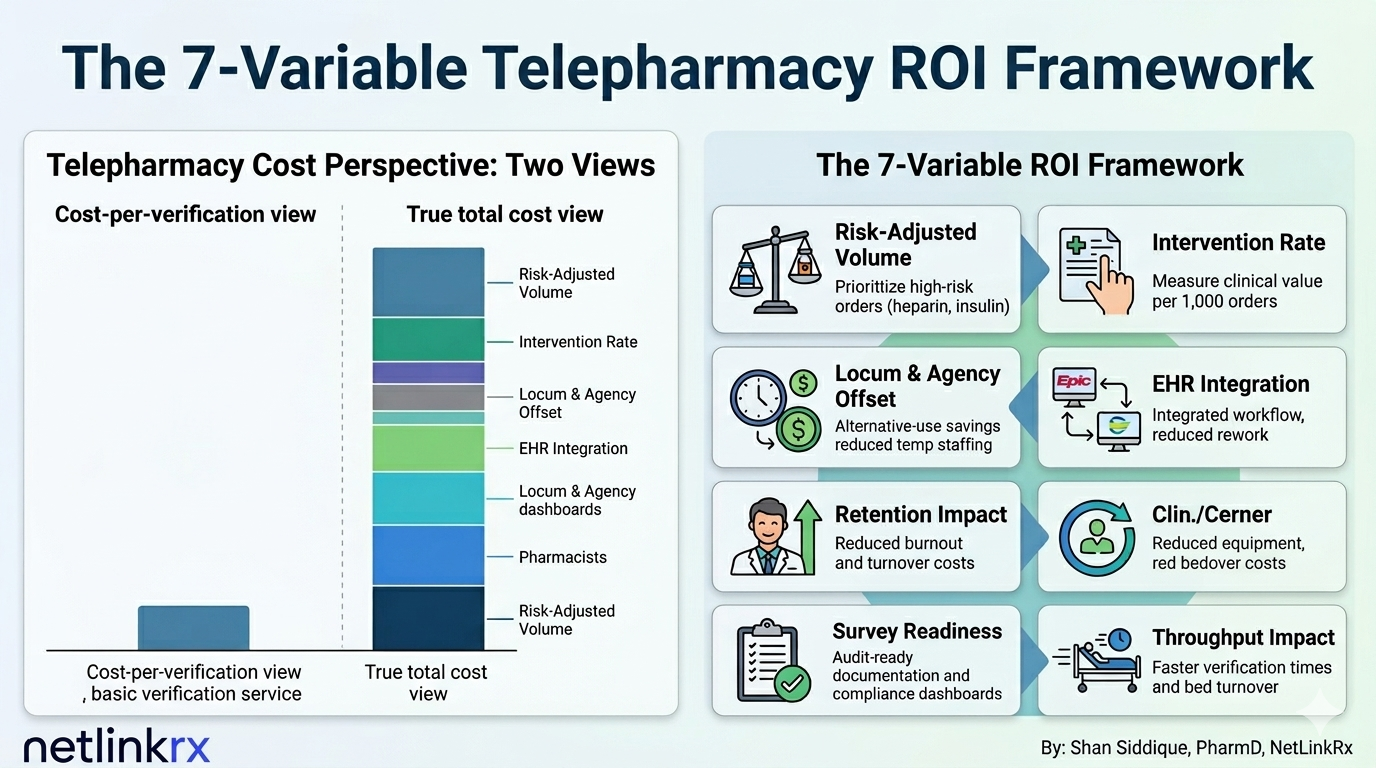
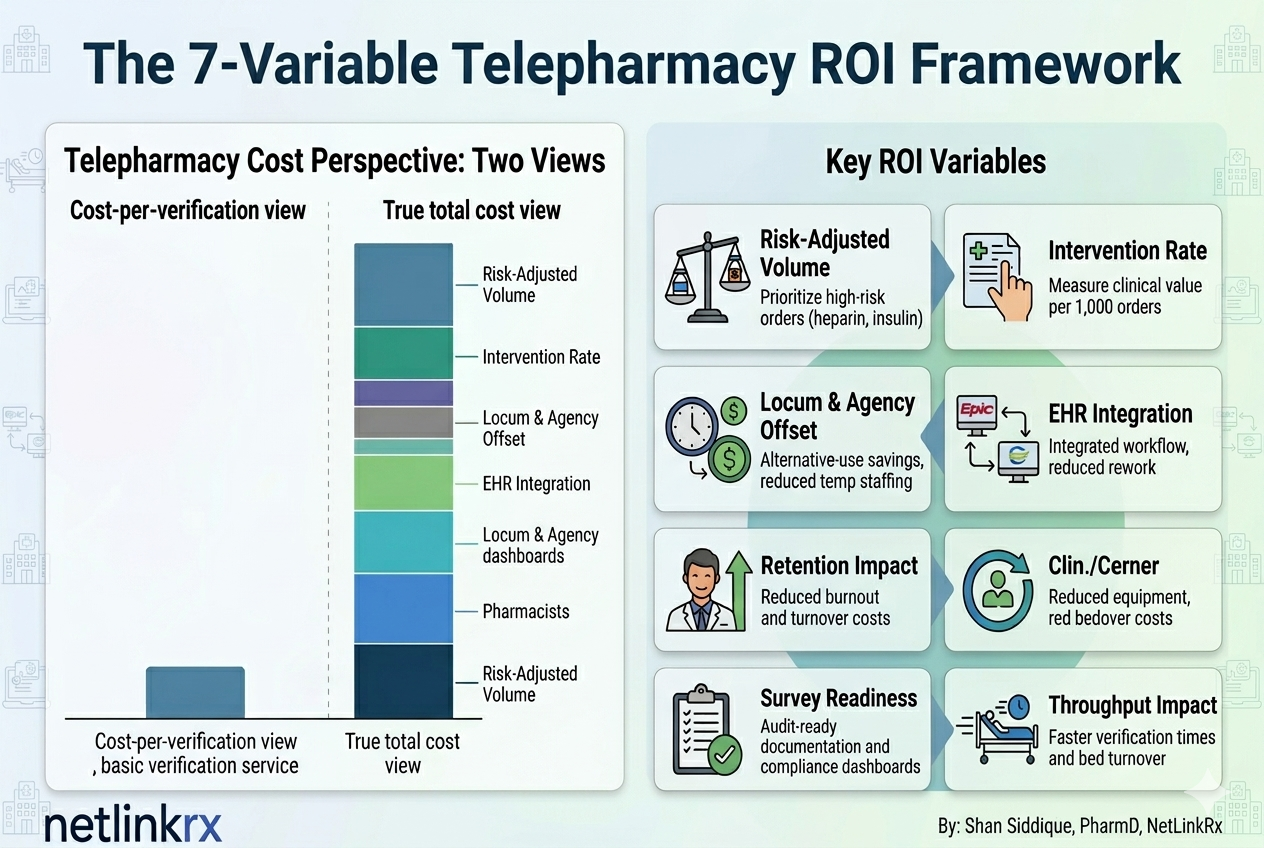
blog hero image resizing

diff --git a/app/blog/page.tsx b/app/blog/page.tsx
@@ -1,4 +1,5 @@
 import Link from "next/link";
+import Image from "next/image";
 import type { Metadata } from "next";
 import { ArrowRight, Newspaper, Sparkles } from "lucide-react";
 import { getAllPosts, pillarBadge, formatDate } from "@/lib/blog";
@@ -58,24 +59,46 @@ export default function BlogIndex() {
           </p>
           <Link
             href={`/blog/${latest.slug}`}
-            className="mt-4 block rounded-2xl border border-slate-200 bg-white p-8 md:p-10 shadow-sm transition-shadow hover:shadow-md"
+            className="group mt-4 block rounded-2xl border border-slate-200 bg-white p-4 md:p-6 shadow-sm transition-shadow hover:shadow-md"
           >
-            <PillarBadge pillar={latest.pillar} />
-            <h2 className="mt-4 text-3xl md:text-4xl font-semibold tracking-tight text-slate-900 leading-tight">
-              {latest.title}
-            </h2>
-            <p className="mt-4 text-lg leading-8 text-slate-600">
-              {latest.description}
-            </p>
-            <div className="mt-6 flex items-center gap-3 text-sm text-slate-500">
-              <span>{formatDate(latest.date)}</span>
-              <span>·</span>
-              <span>{latest.readingTime} min read</span>
-              <span>·</span>
-              <span>{latest.author}</span>
-            </div>
-            <div className="mt-6 inline-flex items-center gap-2 text-sm font-semibold text-blue-600">
-              Read article <ArrowRight className="h-4 w-4" strokeWidth={2} />
+            <div className="grid gap-6 md:grid-cols-2 md:items-center">
+              {/* TEXT (left on desktop, bottom on mobile) */}
+              <div className="order-2 md:order-1 md:px-4 md:py-4 flex flex-col">
+                <div className="flex flex-wrap items-center gap-2">
+                  <span className="inline-flex items-center rounded-full bg-slate-900 px-2.5 py-1 text-xs font-semibold uppercase tracking-widest text-white">
+                    Featured
+                  </span>
+                  <PillarBadge pillar={latest.pillar} />
+                </div>
+                <h2 className="mt-5 text-2xl md:text-[1.65rem] lg:text-[2rem] font-semibold tracking-tight text-slate-900 leading-[1.15] text-balance">
+                  {latest.title}
+                </h2>
+                <p className="mt-4 text-base leading-7 text-slate-600 line-clamp-3">
+                  {latest.description}
+                </p>
+                <div className="mt-5 flex flex-wrap items-center gap-3 text-sm text-slate-500">
+                  <span>{formatDate(latest.date)}</span>
+                  <span>·</span>
+                  <span>{latest.readingTime} min read</span>
+                </div>
+                <div className="mt-5 inline-flex items-center gap-2 text-sm font-semibold text-blue-600">
+                  Read article <ArrowRight className="h-4 w-4" strokeWidth={2} />
+                </div>
+              </div>
+
+              {/* IMAGE (right on desktop, top on mobile). 3:2 cell matches native 1200x800 image — no cropping. */}
+              {latest.ogImage && (
+                <div className="order-1 md:order-2 relative aspect-[3/2] w-full overflow-hidden rounded-xl bg-slate-50">
+                  <Image
+                    src={latest.ogImage}
+                    alt={latest.title}
+                    fill
+                    priority
+                    sizes="(min-width: 768px) 50vw, 100vw"
+                    className="object-cover object-center transition-transform duration-500 group-hover:scale-[1.02]"
+                  />
+                </div>
+              )}
             </div>
           </Link>
         </div>
@@ -93,19 +116,32 @@ export default function BlogIndex() {
                 <Link
                   key={post.slug}
                   href={`/blog/${post.slug}`}
-                  className="block rounded-2xl border border-slate-200 bg-white p-6 shadow-sm transition-shadow hover:shadow-md"
+                  className="group block overflow-hidden rounded-2xl border border-slate-200 bg-white shadow-sm transition-shadow hover:shadow-md"
                 >
-                  <PillarBadge pillar={post.pillar} />
-                  <h3 className="mt-3 text-xl font-semibold tracking-tight text-slate-900 leading-snug">
-                    {post.title}
-                  </h3>
-                  <p className="mt-3 text-sm leading-6 text-slate-600 line-clamp-3">
-                    {post.description}
-                  </p>
-                  <div className="mt-4 flex items-center gap-2 text-xs text-slate-500">
-                    <span>{formatDate(post.date)}</span>
-                    <span>·</span>
-                    <span>{post.readingTime} min read</span>
+                  {post.ogImage && (
+                    <div className="relative aspect-[3/2] w-full overflow-hidden bg-slate-100">
+                      <Image
+                        src={post.ogImage}
+                        alt={post.title}
+                        fill
+                        sizes="(min-width: 768px) 384px, 100vw"
+                        className="object-cover transition-transform duration-500 group-hover:scale-[1.02]"
+                      />
+                    </div>
+                  )}
+                  <div className="p-6">
+                    <PillarBadge pillar={post.pillar} />
+                    <h3 className="mt-3 text-xl font-semibold tracking-tight text-slate-900 leading-snug">
+                      {post.title}
+                    </h3>
+                    <p className="mt-3 text-sm leading-6 text-slate-600 line-clamp-3">
+                      {post.description}
+                    </p>
+                    <div className="mt-4 flex items-center gap-2 text-xs text-slate-500">
+                      <span>{formatDate(post.date)}</span>
+                      <span>·</span>
+                      <span>{post.readingTime} min read</span>
+                    </div>
                   </div>
                 </Link>
               ))}

diff --git a/app/blog/[slug]/page.tsx b/app/blog/[slug]/page.tsx
@@ -40,7 +40,7 @@ export async function generateMetadata({ params }: PageProps): Promise<Metadata>
             {
               url: meta.ogImage,
               width: 1200,
-              height: 630,
+              height: 800,
               alt: meta.title,
             },
           ]
@@ -55,7 +55,7 @@ export async function generateMetadata({ params }: PageProps): Promise<Metadata>
             {
               url: meta.ogImage,
               width: 1200,
-              height: 630,
+              height: 800,
               alt: meta.title,
             },
           ]

diff --git a/public/blog/og/README.md b/public/blog/og/README.md
@@ -7,9 +7,11 @@ Drop your social-share preview images here, one per published article.
 | Property | Value |
 |----------|-------|
 | Format | PNG (preferred) or JPG |
-| Dimensions | 1200 x 630 pixels |
+| Dimensions | **1200 x 800 pixels** (3:2 aspect — fits both LinkedIn share preview and blog card without cropping) |
 | Max size | Under 1 MB (LinkedIn caps preview fetch at ~5 MB but smaller renders faster) |
 | Filename | Must match the post's `slug` in frontmatter |
+
+**Why 1200x800 not 1200x630**: 1200x630 is LinkedIn's classic OG preview spec but it renders too wide and short inside the blog card layout. 1200x800 fits cleanly in both — LinkedIn handles the slightly-taller image, and the blog card displays it without cropping.
 
 ## Filename rule
 